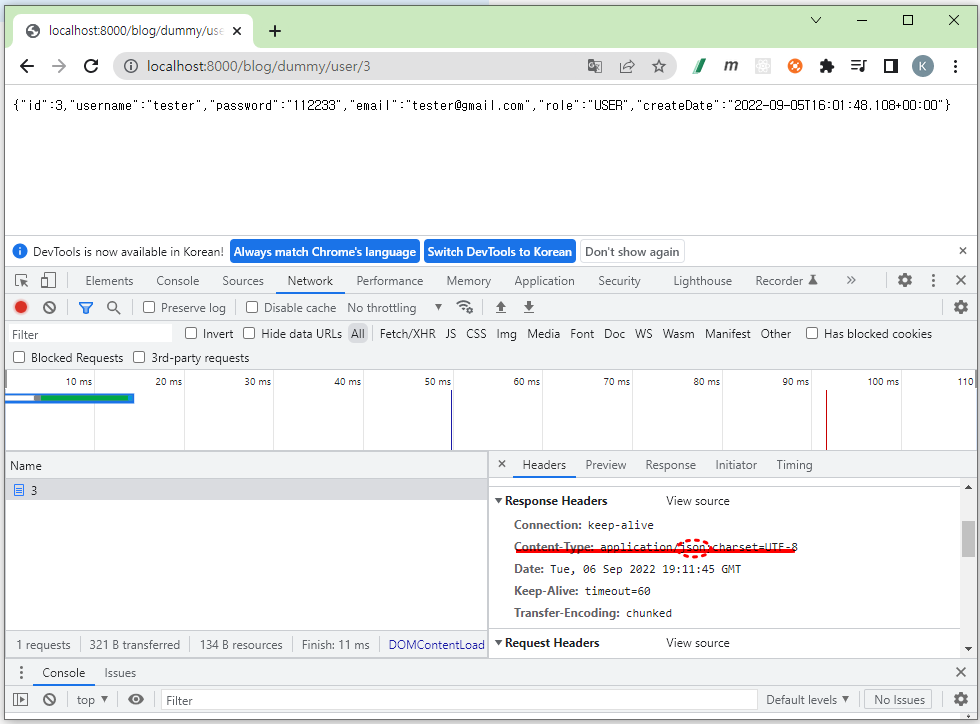
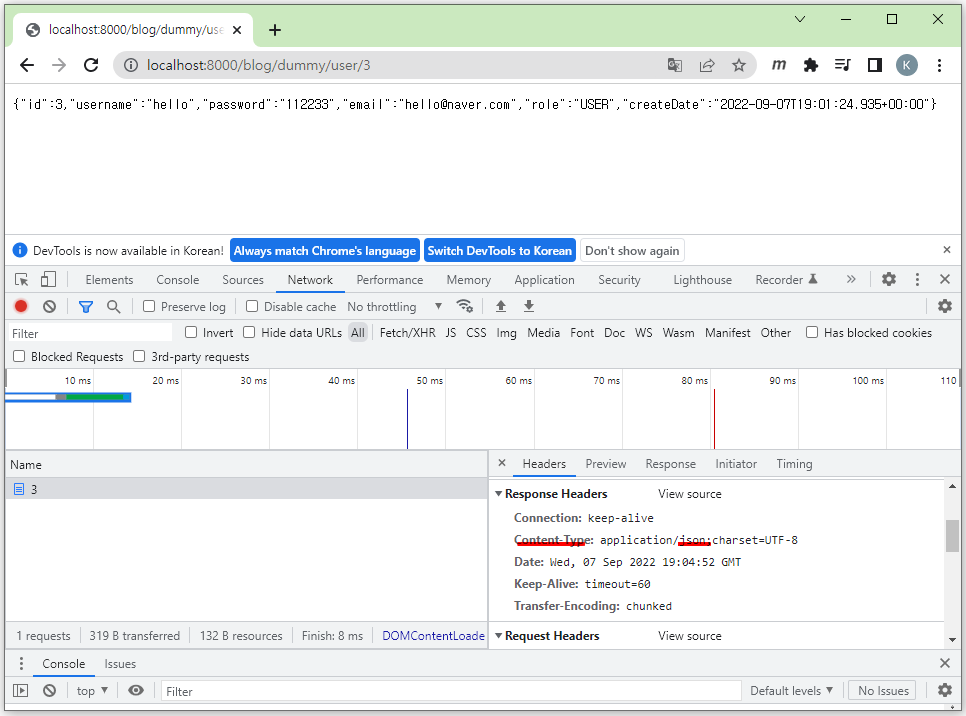
user update

diff --git a/blog/src/main/java/com/cos/blog/test/DummycontrollerTest.java b/blog/src/main/java/com/cos/blog/test/DummycontrollerTest.java
@@ -1,11 +1,20 @@
 package com.cos.blog.test;
 
+import java.util.List;
 import java.util.function.Supplier;
 
+import javax.transaction.Transactional;
+
 import org.springframework.beans.factory.annotation.Autowired;
+//import org.springframework.data.domain.Page;
+import org.springframework.data.domain.Pageable;
+import org.springframework.data.domain.Sort;
+import org.springframework.data.web.PageableDefault;
 import org.springframework.web.bind.annotation.GetMapping;
 import org.springframework.web.bind.annotation.PathVariable;
 import org.springframework.web.bind.annotation.PostMapping;
+import org.springframework.web.bind.annotation.PutMapping;
+import org.springframework.web.bind.annotation.RequestBody;
 import org.springframework.web.bind.annotation.RestController;
 
 import com.cos.blog.model.RoleType;
@@ -18,6 +27,52 @@ public class DummycontrollerTest {
 	
 	@Autowired    // 의존성 주입(DI)
 	private UserRepositroy UserRepositroy;
+	
+	// email, password를 수정한다면
+	@Transactional
+	@PutMapping("/dummy/user/{id}")
+	public User updateUser(@PathVariable int id, @RequestBody User requestUser) {
+		System.out.println("id : " + id);
+		System.out.println("password : " + requestUser.getPassword());
+		System.out.println("email : " + requestUser.getEmail());
+		
+		// 이 방식을 사용하면 null 값이 들어가게 된다. (@Transactional이 존재하지 않았다.)
+//		requestUser.setId(id);
+//		requestUser.setUsername("test");		
+//		UserRepositroy.save(requestUser);
+		
+		// save를 이용하여 정보를 수정하기 위해서는 이런 방식으로 코드를 작성해야한다. (@Transactional이 존재하지 않았다.)
+//		User user = UserRepositroy.findById(id).orElseThrow(()->{
+//			return new IllegalArgumentException("수정에 실패하였습니다.");
+//		});
+//		user.setPassword(requestUser.getPassword());
+//		user.setEmail(requestUser.getEmail());
+//		
+//		UserRepositroy.save(user);
+		
+		// 더티 체킹
+		// save를 사용하지 않으면 이렇게 작성해야한다. (@Transactional 사용)
+		User user = UserRepositroy.findById(id).orElseThrow(()->{
+			return new IllegalArgumentException("수정에 실패하였습니다.");
+		});
+		user.setPassword(requestUser.getPassword());
+		user.setEmail(requestUser.getEmail());
+		
+		return null;
+	}
+	
+	// http://localhost:8000/blog/dummy/user
+	@GetMapping("/dummy/user")
+	public List<User> list() {
+		return UserRepositroy.findAll();
+	}
+	
+	// 한 페이지 당, 두 건의 데이터를 return
+	@GetMapping("/dummy/user/page")
+	public List<User> pageList(@PageableDefault(size = 2, sort = "id", direction = Sort.Direction.DESC) Pageable pageable) {
+		List<User> users = UserRepositroy.findAll(pageable).getContent();
+		return users;
+	}
 	
 	// {id} 주소로 파라메타를 전달 받을 수 있음
 	// http://localhost:8000/blog/dummy/user/3 과 같이 들어가게 된다.
